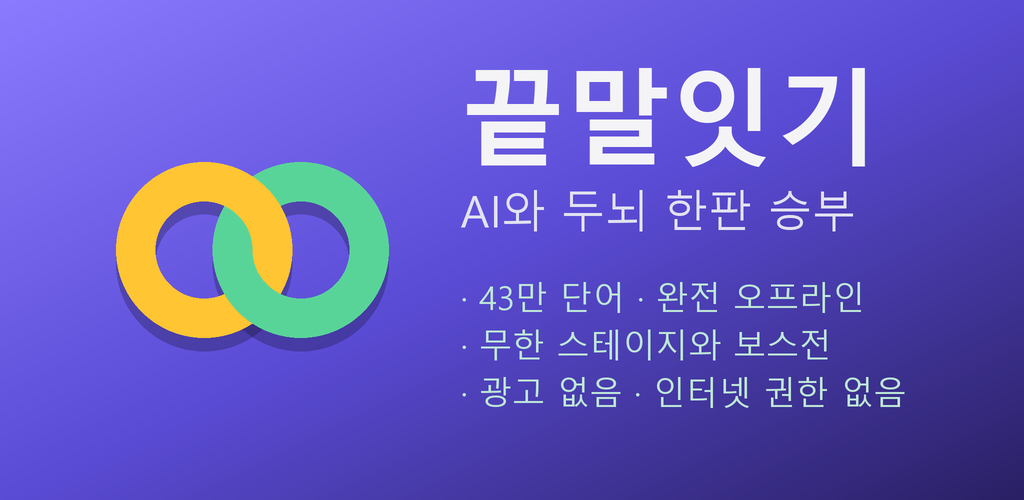
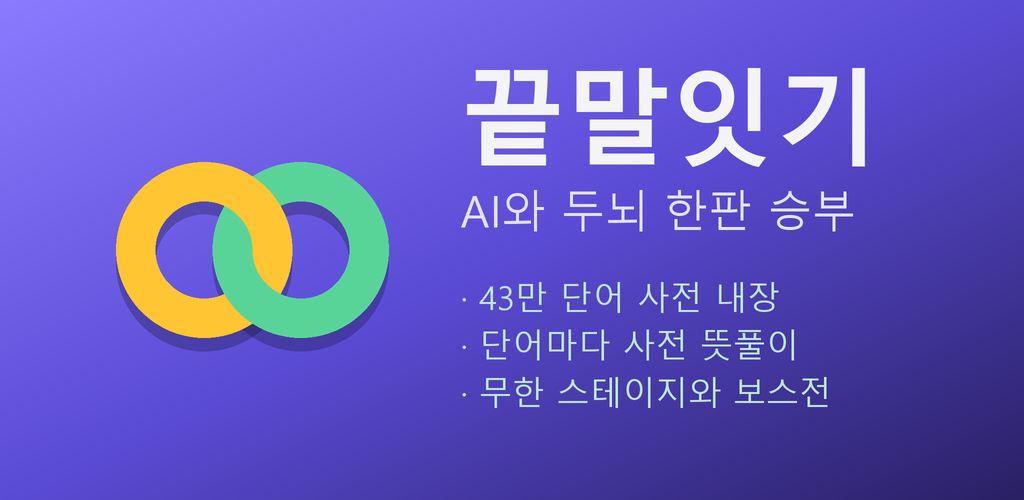
스토어 문구에서 광고 관련 표현 제거
나중에 광고를 붙일 계획이라 "광고 없음"은 지키지 못할 약속이 된다.
스토어 설명에 적어 둔 약속이 깨지면 별점으로 돌아온다.

짧은 설명, 자세한 설명, 피처 그래픽 문구에서 광고 이야기를 빼고
사전 규모·뜻풀이처럼 광고를 붙여도 그대로인 강점으로 바꿨다.

개인정보처리방침과 앱 정보 화면은 그대로 뒀다. 지금 빌드에 광고가 없는 건
사실이고, 방침 문서는 현재 상태를 정확히 적어야 한다.
광고를 넣는 시점에 함께 고쳐야 할 목록은 STORE_LISTING.md 에 적어 뒀다.

Changed region(s): [[0.4688, 0.75, 0.875, 0.81], [0.4688, 0.66, 0.8125, 0.72], [0.625, 0.54, 0.8438, 0.63]]

diff --git a/tools/make_store_assets.py b/tools/make_store_assets.py
@@ -157,7 +157,9 @@ def make_feature(path, w=1024, h=500):
            font=f_sub, fill=(226, 226, 240), anchor='ls')
 
     f_tag = korean_font(int(big_h * 0.066), bold=False)
-    tags = ['43만 단어 · 완전 오프라인', '무한 스테이지와 보스전', '광고 없음 · 인터넷 권한 없음']
+    # 광고 관련 문구는 넣지 않는다 — 나중에 광고를 붙일 계획이라
+    # "광고 없음"은 지키지 못할 약속이 된다.
+    tags = ['43만 단어 사전 내장', '단어마다 사전 뜻풀이', '무한 스테이지와 보스전']
     for i, t in enumerate(tags):
         d.text((x, int(big_h * (0.62 + i * 0.095))), '· ' + t,
                font=f_tag, fill=(190, 231, 216), anchor='ls')

diff --git a/docs/store/STORE_LISTING.md b/docs/store/STORE_LISTING.md
@@ -17,10 +17,14 @@ Play Console 에 그대로 옮겨 붙이는 용도. 글자 수는 각 항목 옆
 ## 짧은 설명 (최대 80자)
 
 ```
-43만 단어 사전을 통째로 담은 끝말잇기. 인터넷 없이, 광고 없이 AI와 겨루세요.
+43만 단어 사전을 통째로 담은 끝말잇기. 단어마다 뜻풀이가 뜹니다. AI와 겨뤄 보세요.
 ```
 
-*44자. 스토어 목록과 검색 결과에 이 문장만 보이므로 차별점(사전 크기·오프라인·무광고)을 먼저 적었다.*
+*46자. 스토어 목록과 검색 결과에 이 문장만 보이므로 차별점(사전 크기·뜻풀이)을 먼저 적었다.*
+
+> **광고 관련 문구는 넣지 않는다.** 나중에 광고를 붙일 계획이 있어서,
+> "광고 없음"은 지키지 못할 약속이 된다. 스토어 설명에 적힌 약속이 깨지면
+> 별점 테러로 돌아온다.
 
 ---
 
@@ -41,15 +45,12 @@ AI와 1:1로 겨루는 한국어 끝말잇기입니다.
 동음이의어는 가장 널리 쓰이는 뜻을 골라 보여 줍니다.
 
 
-■ 인터넷이 필요 없습니다
+■ 사전이 통째로 앱 안에 있습니다
 
-사전도, 뜻풀이도, 그림도, 음악도 전부 앱 안에 있습니다.
+사전도, 뜻풀이도, 그림도, 음악도 전부 내려받아 둔 상태입니다.
 비행기 안에서도, 지하철에서도 그대로 됩니다.
 
-인터넷 권한 자체가 없습니다. 그래서
-- 광고가 없습니다
-- 아무것도 수집하지 않습니다
-- 결제가 없습니다
+게임 기록은 기기 안에만 저장되고, 앱을 지우면 함께 사라집니다.
 
 
 ■ 실력에 맞춰 고르세요
@@ -109,8 +110,8 @@ AI와 1:1로 겨루는 한국어 끝말잇기입니다.
 
 - 출퇴근길에 가볍게 머리 쓸 거리를 찾는 분
 - 아이와 함께 낱말 놀이를 하고 싶은 분
-- 광고 없는 게임을 찾는 분
-- 데이터 없이 되는 게임이 필요한 분
+- 놀면서 낱말 뜻도 같이 익히고 싶은 분
+- 데이터 안 쓰고 되는 게임이 필요한 분
 
 
 ---
